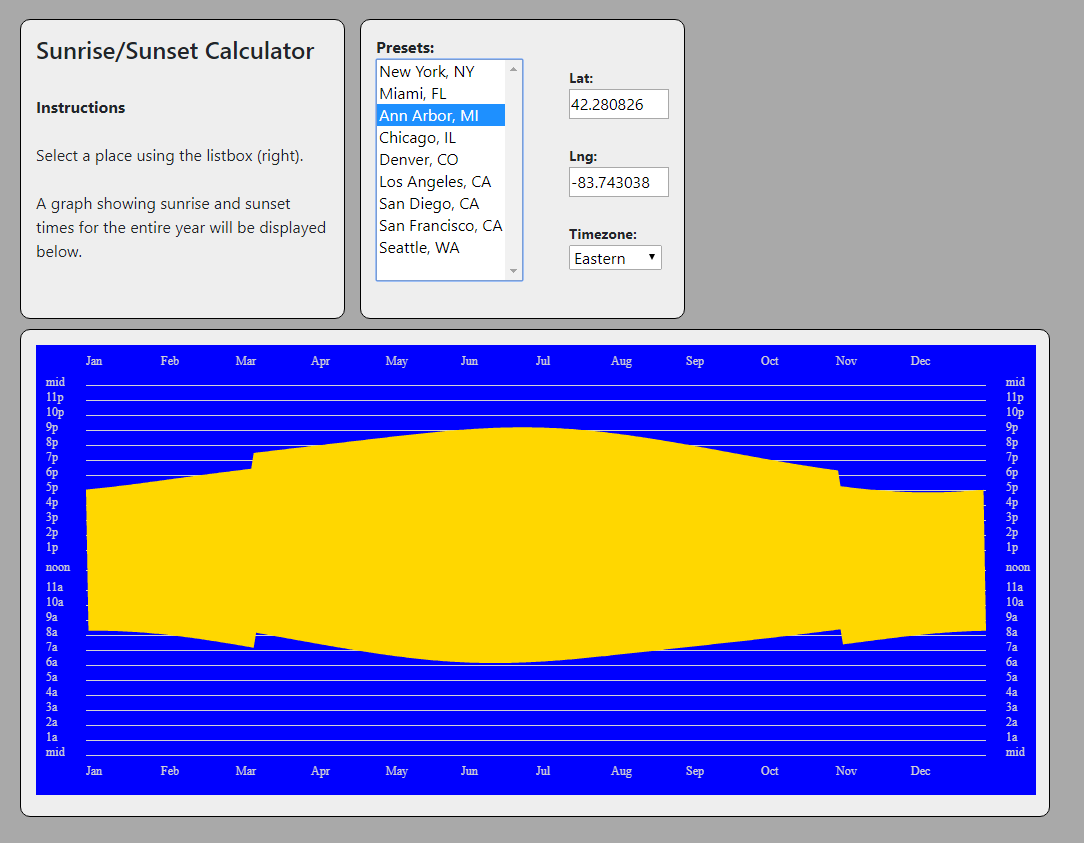
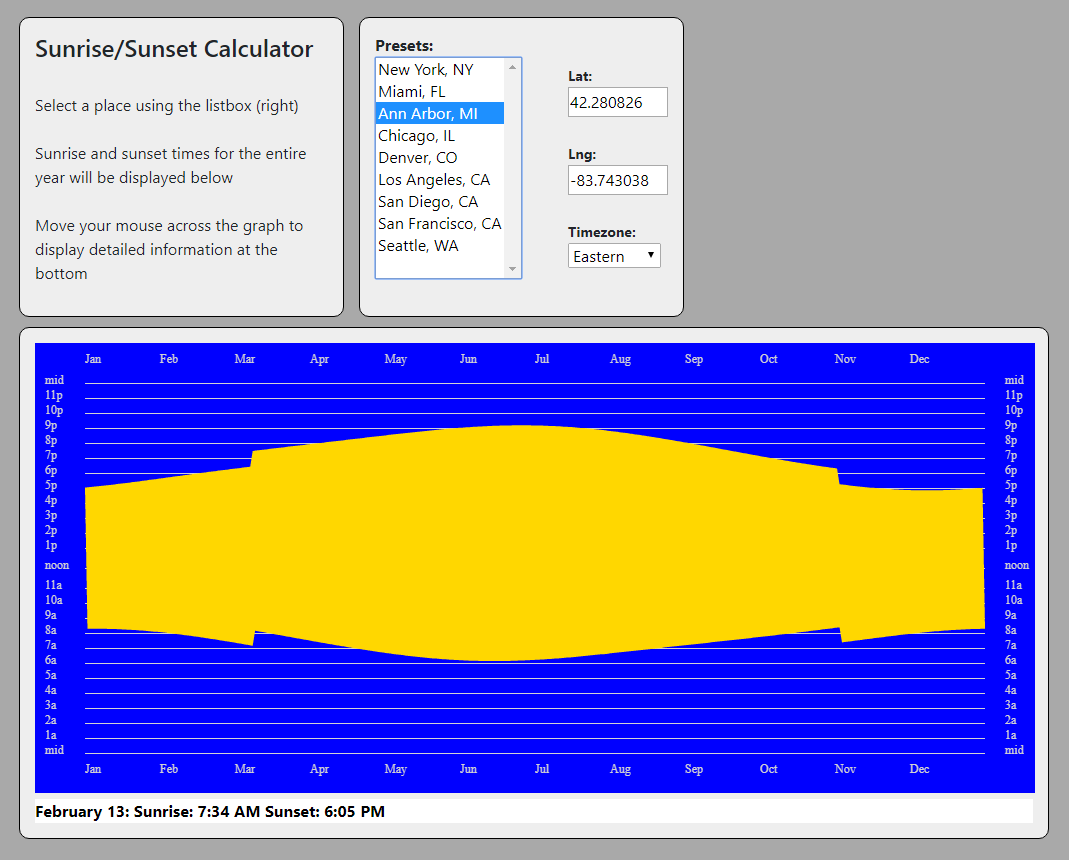
Added mouseover to show extra details

Changed region(s): [[0.0, 0.0, 0.9878, 0.987]]

diff --git a/src/SuntimesDisplay.tsx b/src/SuntimesDisplay.tsx
@@ -1,4 +1,4 @@
-import React from 'react';
+import React, { MouseEvent } from 'react';
 import { DayInfo } from './SunHourCalculator';
 
 // defining the property types
@@ -22,7 +22,17 @@ export class SuntimesDisplay extends React.Component<DisplayProps, any> {
 
     constructor(props: DisplayProps) {
         super(props);
-        this.state = {};
+        this.state = {
+            tooltip: "Mouse over for info"
+        };
+        this.onMouseMove = this.onMouseMove.bind(this);
+    }
+
+    clearDisplay(ctx: CanvasRenderingContext2D) {
+        // background is blue
+        ctx.beginPath();
+        ctx.fillStyle = '#0000ff';
+        ctx.fillRect(0, 0, ctx.canvas.width, ctx.canvas.height);                
     }
 
     drawHours(ctx: CanvasRenderingContext2D) {
@@ -92,19 +102,8 @@ export class SuntimesDisplay extends React.Component<DisplayProps, any> {
         });        
     }
 
-    componentDidUpdate() {
-        const canvas = this.refs.canvas as HTMLCanvasElement;
-        const ctx = canvas.getContext("2d")!;
+    drawSunData(ctx: CanvasRenderingContext2D) {
         const sunData = this.props.sunData;
-
-        // background is blue
-        ctx.beginPath();
-        ctx.fillStyle = '#0000ff';
-        ctx.fillRect(0, 0, canvas.width, canvas.height);
-
-        // lines and labels for the graph hours
-        this.drawHours(ctx);
-        this.drawMonths(ctx);
 
         // now create a path that is defined by the sunset times, then the sunrise times
         let x = this.sideMargin;
@@ -134,11 +133,36 @@ export class SuntimesDisplay extends React.Component<DisplayProps, any> {
         ctx.fill();    
     }
 
+    componentDidUpdate() {
+        const canvas = this.refs.canvas as HTMLCanvasElement;
+        const ctx = canvas.getContext("2d")!;
+
+        this.clearDisplay(ctx);        
+        this.drawHours(ctx);  // lines and labels for the graph hours
+        this.drawMonths(ctx); // month labels
+        this.drawSunData(ctx); // the actual data
+    }
+
+    onMouseMove(ev: MouseEvent<HTMLCanvasElement>) {
+        const canvasX = (ev.target as HTMLCanvasElement).offsetLeft;
+        const mouseX = ev.clientX;
+        
+        let dayIndex = (mouseX - canvasX - this.sideMargin) / this.dayWidth;
+        dayIndex = Math.trunc(dayIndex);
+
+        const dayInfo = this.props.sunData[dayIndex];
+        if (dayInfo) {
+            const msg = dayInfo.infoMsg;
+            this.setState({details: msg});
+        }
+    }
+
     render() {
         return (
             <div className="col-12">
                 <div className="Suntime-display-box">
-                    <canvas ref="canvas" width={this.canvasWidth} height={this.canvasHeight} />
+                    <canvas ref="canvas" width={this.canvasWidth} height={this.canvasHeight} onMouseMove={this.onMouseMove} />
+                    <div id='infobox'>{this.state.details}</div>
                 </div>
             </div>
         );

diff --git a/src/PlaceSelector.tsx b/src/PlaceSelector.tsx
@@ -58,9 +58,9 @@ export function PlaceSelector(props: PlaceSelectorProps) {
       <div className="col-12">
         <div className='Instructions-box'>
           <h4>Sunrise/Sunset Calculator</h4><br/>
-          <b>Instructions</b><br/><br/>
-          Select a place using the listbox (right).<br/><br/>
-          A graph showing sunrise and sunset times for the entire year will be displayed below.
+          Select a place using the listbox (right)<br/><br/>
+          Sunrise and sunset times for the entire year will be displayed below<br/><br/>
+          Move your mouse across the graph to display detailed information at the bottom
         </div>
         <div className='Place-selector-box'>
 

diff --git a/src/SunHourCalculator.tsx b/src/SunHourCalculator.tsx
@@ -59,9 +59,9 @@ export class SunHourCalculator {
 
                 const infoMsg = 
                     this.monthList[month].month + 
-                    " " + day +
-                    "<br/>Sunrise: " + sunriseFormatted +
-                    "<br/>Sunset: " + sunsetFormatted;
+                    " " + day + ": " + 
+                    "Sunrise: " + sunriseFormatted + "  " + 
+                    "Sunset: " + sunsetFormatted;
 
                 this.suntimes.push({dayNumber, sunriseTimeAsNum, sunsetTimeAsNum, infoMsg});
                 dayNumber++;

diff --git a/src/App.css b/src/App.css
@@ -68,3 +68,10 @@
   width: 1030px;
   background-color: #eeeeee;
 }
+
+#infobox {
+  display: block;
+  background-color: white;
+  color: black;
+  font-weight: bold;
+}

diff --git a/README.md b/README.md
@@ -9,6 +9,8 @@ graphic display that shows sunrise and sunset times throughout the year to be di
 as having January 1 on the left edge, December 31 on the right edge, with the sunrise and sunset times for each
 day displayed as a yellow/gold column.  
 
+If you move your mouse across the graph, the times for sunrise and sunset will be shown near the bottom of the graph.
+
 Here's a screenshot:
 
 ![Screenshot](screenshot.png)
